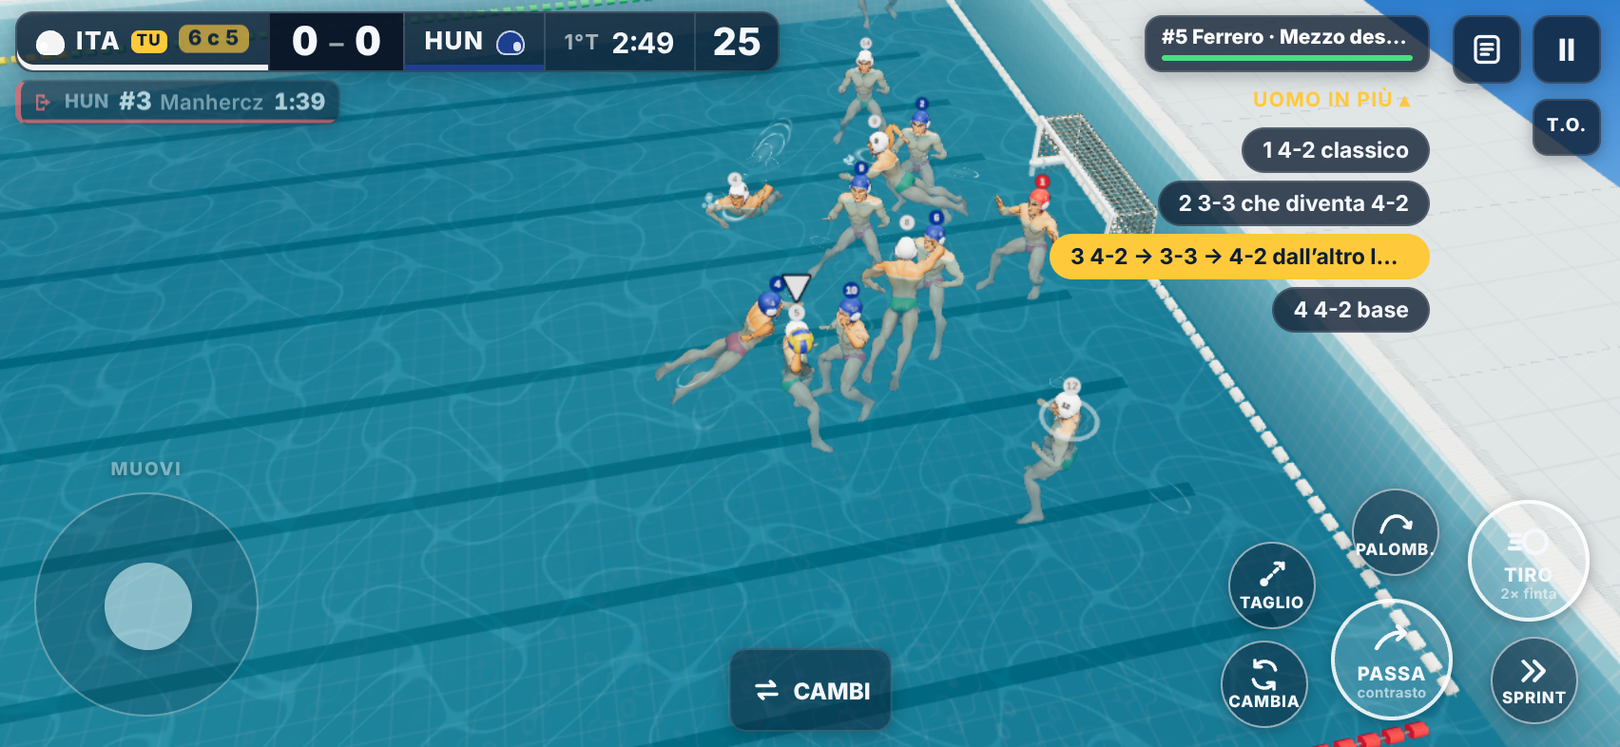
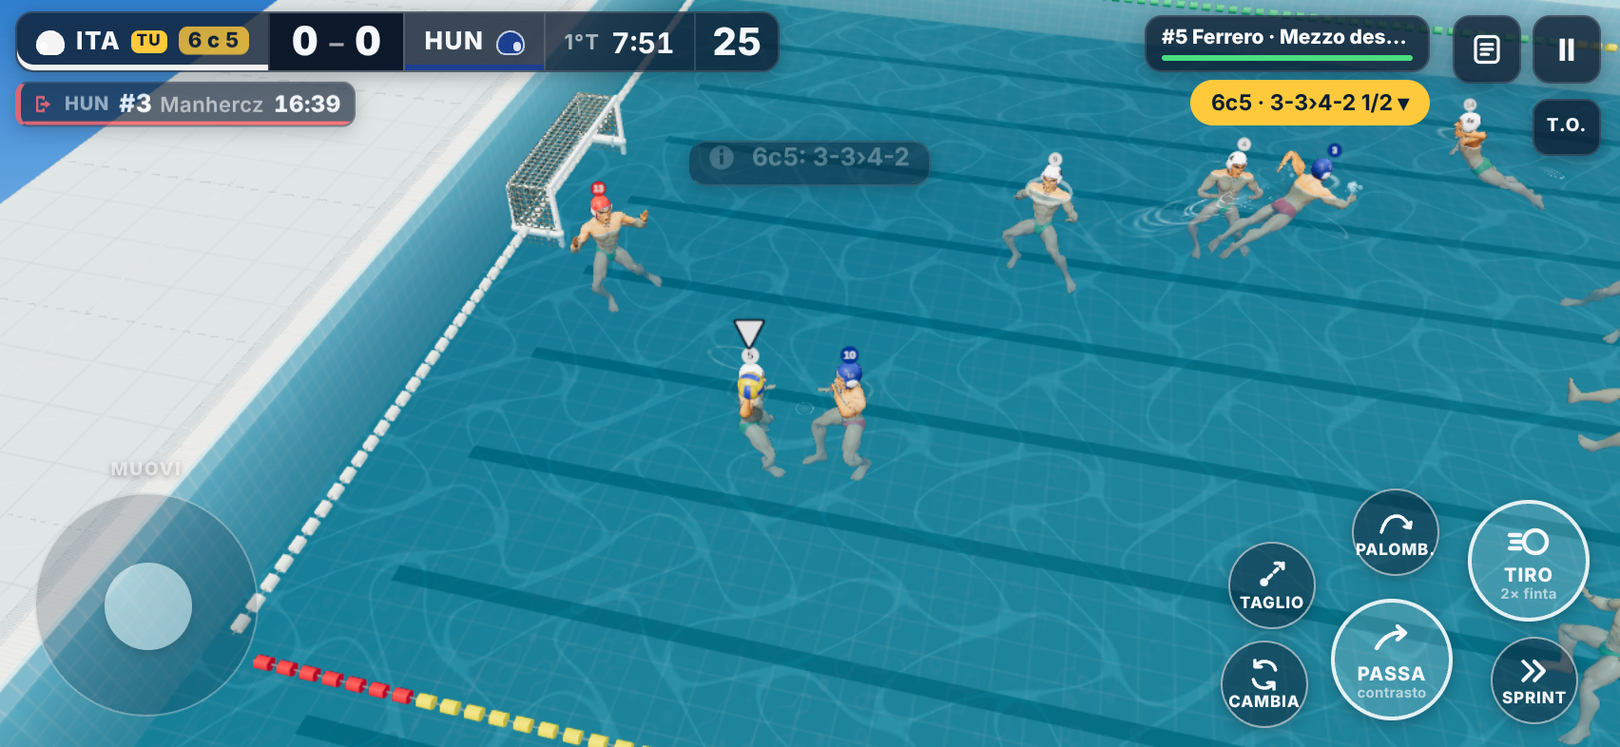
v0.44: interfaccia più pulita (espulsione senza sfarfallio, CAMBI solo quando serve, sigle dell'uomo in più)
- cronaca.js: il riquadro dell'espulso si crea una volta, si aggiornano solo tempo e barra
- stile.css: #tCambi visibile solo con un consiglio urgente o un cambio in corso
- uomo in più: sigle brevi (libreria, campo nell'editor), barra «6c5 · sigla k/n», chiusura dopo 5 s
- hud.js: barra della lotta solo se riguarda il giocatore
- docs/hud-priorita.md: cosa si vede e quando; prove aggiornate (cronaca, uomo)

Claude-Session: https://claude.ai/code/session_01XAJhVTigiGoNKwMZvUN4DX

diff --git a/src/uomo-in-piu.js b/src/uomo-in-piu.js
@@ -11,7 +11,7 @@
 // 4 = mezzo sinistro (5), P1 = centroboa (1), P5 = punto (6).
 import { FORM_UP } from './costanti.js';
 
-export const MAX_SCELTI = 3, MAX_FASI = 4, MAX_PERSONALI = 24;
+export const MAX_SCELTI = 3, MAX_FASI = 4, MAX_PERSONALI = 24, MAX_SIGLA = 10;
 export const DURATE = [1.5, 2.5, 3.5, 5];      // secondi per fase (l'ultima resta comunque fino alla fine dell'uomo in più)
 export const RUOLI_UP = ['Centroboa', 'Ala destra', 'Ala sinistra', 'Mezzo destro', 'Mezzo sinistro', 'Punto'];
 const KEY = 'pallanuoto-uomo-v044';
@@ -22,27 +22,27 @@ const fase = (posti, durata = 2.5, palla = 0) => ({ posti, durata, palla });
 const P33 = [[2.1, 0], [2.0, 4.4], [2.0, -4.4], [4.6, 3.4], [4.6, -3.4], [6.5, 0]];
 
 export const LIBRERIA = [
-  { id: 'u42', nome: '4-2 classico', fonte: 'Mistrangelo, fig. 1',
+  { id: 'u42', sigla: '4-2', nome: '4-2 classico', fonte: 'Mistrangelo, fig. 1',
     descrizione: 'Quattro sui 2 metri (due esterni e due pali) e due tiratori ai 5 metri. La palla gira in fretta fino al tiro libero.',
     fasi: [fase(P42, 5)] },
-  { id: 'u33', nome: '3-3', fonte: 'Mistrangelo, fig. 2',
+  { id: 'u33', sigla: '3-3', nome: '3-3', fonte: 'Mistrangelo, fig. 2',
     descrizione: 'Tre sui 2 metri e tre fuori: più tiratori da lontano, il centro libera lo spazio per chi è al centro.',
     fasi: [fase(P33, 5)] },
-  { id: 'u33-42', nome: '3-3 che diventa 4-2', fonte: 'Mistrangelo, fig. 3',
+  { id: 'u33-42', sigla: '3-3›4-2', nome: '3-3 che diventa 4-2', fonte: 'Mistrangelo, fig. 3',
     descrizione: 'Si parte in 3-3; il mezzo sinistro entra sul palo, il centro scivola a destra e il punto scende ai 5 metri.',
     fasi: [fase(P33, 2.5), fase([[2.1, 1.75], [2.0, 5.4], [2.0, -5.4], [5.2, 2.5], [2.1, -1.75], [5.2, -2.5]], 5, 4)] },
-  { id: 'u42-33', nome: '4-2 che diventa 3-3', fonte: 'Mistrangelo, fig. 4',
+  { id: 'u42-33', sigla: '4-2›3-3', nome: '4-2 che diventa 3-3', fonte: 'Mistrangelo, fig. 4',
     descrizione: 'Dal 4-2 l’ala sinistra esce ai 5 metri, i pali scivolano a sinistra e il mezzo sinistro diventa punto.',
     fasi: [fase(P42, 2.5), fase([[2.1, 0], [2.0, 4.4], [4.6, -3.4], [4.6, 3.4], [6.5, 0], [2.0, -4.4]], 5, 3)] },
-  { id: 'urot1', nome: 'Rotazione verso 1', fonte: 'Mistrangelo, fig. 5',
+  { id: 'urot1', sigla: 'Rotaz. 1', nome: 'Rotazione verso 1', fonte: 'Mistrangelo, fig. 5',
     descrizione: 'Come il 4-2 che diventa 3-3, ma lo scivolamento del palo sinistro è corto: si apre la linea per il palo destro.',
     fasi: [fase(P42, 2.5), fase([[2.1, 0.6], [2.0, 5.4], [4.4, -4.0], [4.6, 3.6], [6.4, -0.5], [2.0, -3.9]], 5, 1)] },
-  { id: 'u42-33-42', nome: '4-2 → 3-3 → 4-2 dall’altro lato', fonte: 'Mistrangelo, fig. 6',
+  { id: 'u42-33-42', sigla: 'Doppio lato', nome: '4-2 → 3-3 → 4-2 dall’altro lato', fonte: 'Mistrangelo, fig. 6',
     descrizione: 'Il palo sinistro esce, il centro si sposta, poi il mezzo destro entra sul palo: la difesa deve cambiare lato due volte.',
     fasi: [fase(P42, 2),
       fase([[2.1, 0], [2.0, 4.6], [2.0, -4.6], [4.6, 3.4], [6.5, 0], [4.6, -3.4]], 2.5),
       fase([[2.1, -1.75], [2.0, 5.4], [2.0, -5.4], [2.1, 1.75], [5.2, 2.5], [5.2, -2.5]], 5, 4)] },
-  { id: 'uscivola5', nome: 'Uscita del 5 e scivolamento del palo', fonte: 'Mistrangelo, terza puntata, fig. 20-21',
+  { id: 'uscivola5', sigla: 'Uscita 5', nome: 'Uscita del 5 e scivolamento del palo', fonte: 'Mistrangelo, terza puntata, fig. 20-21',
     descrizione: 'L’esterno sinistro esce dai 2 metri per tirare; il palo sinistro scivola sulla linea senza uscire e obbliga il centrale a scegliere.',
     fasi: [fase(P42, 2), fase([[2.1, 1.75], [2.0, 5.4], [3.6, -5.0], [4.8, 3.2], [5.0, -1.2], [2.0, -3.7]], 5, 3)] },
 ];
@@ -72,7 +72,8 @@ export function validaUomo(input) {
   if (!nome) return null;
   const id = typeof input.id === 'string' && input.id ? input.id.slice(0, 40) : null;
   if (!id) return null;
-  return { id, nome, descrizione: typeof input.descrizione === 'string' ? input.descrizione.slice(0, 240) : '',
+  const sigla = typeof input.sigla === 'string' ? input.sigla.trim().slice(0, MAX_SIGLA) : '';
+  return { id, nome, sigla, descrizione: typeof input.descrizione === 'string' ? input.descrizione.slice(0, 240) : '',
     fonte: typeof input.fonte === 'string' ? input.fonte.slice(0, 80) : '', personale: !!input.personale, fasi };
 }
 
@@ -87,6 +88,8 @@ export function personali() {
   return v.personali.map(s => validaUomo({ ...s, personale: true })).filter(Boolean).slice(0, MAX_PERSONALI);
 }
 export function tutti() { return [...LIBRERIA, ...personali()]; }
+// nome breve da mostrare in partita (barra in alto, annuncio): la sigla scelta, altrimenti l'inizio del nome
+export const siglaUomo = s => !s ? '4-2' : (s.sigla || (s.nome.length <= MAX_SIGLA ? s.nome : s.nome.slice(0, MAX_SIGLA - 1).trimEnd() + '…'));
 export const trova = id => tutti().find(s => s.id === id) || null;
 export function scelti() {
   const v = leggi(), ids = v && Array.isArray(v.scelti) ? v.scelti : SCELTI_BASE;

diff --git a/src/hud.js b/src/hud.js
@@ -8,8 +8,9 @@ import { ball, ctrl, fight, game, teams } from './stato.js';
 import { iconaMano } from './mano.js';
 import { aggiornaPulsanteCambi } from './panchinaVista.js';
 import { manUp, schemiUomo } from './ia.js';
+import { siglaUomo } from './uomo-in-piu.js';
 export const $ = id => document.getElementById(id);
-let tacKey='', schedaVista=null, ultimoBip=null, uomoAperto=null;
+let tacKey='', schedaVista=null, ultimoBip=null, uomoAperto=null, uomoChiudi=null;
 const TOUCH='ontouchstart' in window || navigator.maxTouchPoints>0;
 let schemiAperti=!TOUCH;
 export function apriSchemi(v){ schemiAperti = v===undefined ? !schemiAperti : (TOUCH ? v : true); }
@@ -68,7 +69,10 @@ export function updateHUD(){
   }
   aggiornaCronaca();
   const fe=$('fight');
-  if(fight.active){
+  // la barra della lotta al centro solo quando riguarda il giocatore: controlla il boa o il suo marcatore, oppure la sua squadra
+  // attacca e può servire il centroboa (v0.44, «le informazioni compaiono quando servono»)
+  const lottaUtile=fight.active&&(ctrl===fight.boa||ctrl===fight.def||(game.possTeam===teams[0]&&fight.boa.team===teams[0]));
+  if(lottaUtile){
     fe.style.display='block';
     const stato=fight.ricevibile?'Boa servibile':fight.stato==='anticipo'?'Anticipo difesa':'Cerca il lato';
     $('fstato').textContent=stato;
@@ -83,18 +87,22 @@ export function updateHUD(){
   const piano=atk&&hum.schema?hum.schema.nome:null;
   // uomo in più (v0.44): la barra mostra i tre schemi scelti; si apre da sola all'inizio di ogni superiorità (un tocco per chiamarlo)
   const up=atk&&manUp(hum)&&game.state==='play';
-  if(up&&hum.uomoPossT!==uomoAperto){ uomoAperto=hum.uomoPossT; apriSchemi(true); }
-  if(!up) uomoAperto=null;
+  // si apre da sola a ogni superiorità e, se non si sceglie niente, si richiude dopo 5 s di gioco (resta la pillola chiusa)
+  if(up&&hum.uomoPossT!==uomoAperto){ uomoAperto=hum.uomoPossT; uomoChiudi=game.time+5; apriSchemi(true); }
+  if(up&&TOUCH&&uomoChiudi!=null&&game.time>=uomoChiudi){ uomoChiudi=null; if(!hum.uomo) apriSchemi(false); }
+  if(!up){ uomoAperto=null; uomoChiudi=null; }
   const key=(up?'u'+(hum.uomo?hum.uomo.schema.id+hum.uomo.fase:'-'):'')+(atk?'a'+hum.atkPlay:'d'+hum.defPlay)+'|'+ai.defPlay+ai.atkPlay+'|'+schemiAperti+'|'+piano;
   if(key!==tacKey&&up){
     tacKey=key;
     const lista=schemiUomo(hum), cur=hum.uomo?hum.uomo.schema:null;
     let h;
-    if(!schemiAperti) h=`<span class="chip on up" data-apri="1">6c5: ${cur?cur.nome:'scegli lo schema'} ▾</span>`;
+    // testi brevi (sigla dello schema e fase «2/3»); il nome completo resta nel suggerimento al passaggio del mouse
+    const fase=cur&&cur.fasi.length>1?` ${hum.uomo.fase+1}/${cur.fasi.length}`:'';
+    if(!schemiAperti) h=`<span class="chip on up" data-apri="1" title="${cur?cur.nome:'4-2 base'}">6c5 · ${siglaUomo(cur)}${fase} ▾</span>`;
     else {
-      h=`<span class="chip lab up" data-apri="1">UOMO IN PIÙ${TOUCH?' ▴':''}</span>`;
-      lista.forEach((sc,i)=>{ h+=`<span class="chip up${cur===sc?' on':''}" data-i="${i}">${i+1} ${sc.nome}${cur===sc&&sc.fasi.length>1?` · fase ${hum.uomo.fase+1}/${sc.fasi.length}`:''}</span>`; });
-      h+=`<span class="chip up${!cur?' on':''}" data-i="3">4 4-2 base</span>`;
+      h=`<span class="chip lab up" data-apri="1">6c5${TOUCH?' ▴':''}</span>`;
+      lista.forEach((sc,i)=>{ h+=`<span class="chip up${cur===sc?' on':''}" data-i="${i}" title="${sc.nome}">${i+1} ${siglaUomo(sc)}${cur===sc?fase:''}</span>`; });
+      h+=`<span class="chip up${!cur?' on':''}" data-i="3" title="4-2 della strategia">4 Base</span>`;
     }
     $('tac').innerHTML=h;
   } else if(key!==tacKey){

diff --git a/src/cronaca.js b/src/cronaca.js
@@ -104,21 +104,32 @@ export function tick(dt){
 // il distintivo oro «6 c 5» nel tabellone. Nessun banner al centro: il gioco intanto continua.
 const fresche=new Map();
 const USCITA_SVG='<svg viewBox="0 0 24 24"><path d="M4 3.5h9v4h-2.4V6H6.4v12h4.2v-1.5H13v4H4z" fill="currentColor"/><path d="M13.5 8l6 4-6 4v-2.6H8.6v-2.8h4.9z" fill="currentColor"/></svg>';
-const chiaviEsp=['',''];
+// Un riquadro per espulso, creato UNA volta e poi solo aggiornato (secondi, barretta rossa, dettaglio dei primi secondi).
+// Prima veniva ricostruito a ogni aggiornamento (la percentuale della barretta cambia di continuo) e il riquadro «sfarfallava»
+// (segnalazione di Ale, 15/11/2026).
+const riquadri=[new Map(),new Map()];
+function riquadroEspulso(t,p){
+  const el=document.createElement('span'); el.className='ex';
+  el.innerHTML=`<span class="r1">${USCITA_SVG}<span class="sq-ex">${t.short}</span><span class="lab">Espulsione</span><span class="chi">#${p.num} <small>${p.name}</small></span><span class="t"></span></span><span class="det"></span>`;
+  return { el, t:el.querySelector('.t'), det:el.querySelector('.det'), testo:'', p:'', nuova:null, dettaglio:null };
+}
 function aggiornaStato(){
   const inCampo=t=>t.players.filter(p=>!p.excluded&&!p.isGK).length;      // giocatori di movimento: «6 contro 5»
   const a=inCampo(teams[0]), b=inCampo(teams[1]);
   teams.forEach((t,k)=>{
-    let h='';
+    const box=$(k===0?'espA':'espB'), mappa=riquadri[k];
+    for(const [p,r] of mappa) if(!p.excluded||p.team!==t){ r.el.remove(); mappa.delete(p); }
     for(const p of t.players) if(p.excluded){
+      let r=mappa.get(p); if(!r){ r=riquadroEspulso(t,p); mappa.set(p,r); box.appendChild(r.el); }
       const resta=Math.max(0,p.exclUntil-game.time), f=fresche.get(p), def=p.pf>=3;
-      h+=`<span class="ex${f?' nuova':''}" style="--p:${def?100:Math.round(Math.min(1,resta/EXCL_TIME)*100)}%">`
-        +`<span class="r1">${USCITA_SVG}<span class="sq-ex">${t.short}</span><span class="lab">Espulsione</span><span class="chi">#${p.num} <small>${p.name}</small></span><span class="t">${def?'def.':fmt(resta)}</span></span>`
-        +(f&&f.det?`<span class="det">${f.det}</span>`:'')+'</span>';
+      const testo=def?'def.':fmt(resta), perc=`${def?100:Math.round(Math.min(1,resta/EXCL_TIME)*100)}%`;
+      if(r.testo!==testo){ r.testo=testo; r.t.textContent=testo; }
+      if(r.p!==perc){ r.p=perc; r.el.style.setProperty('--p',perc); }
+      if(r.nuova!==!!f){ r.nuova=!!f; r.el.classList.toggle('nuova',!!f); }
+      const det=f&&f.det?f.det:''; if(r.dettaglio!==det){ r.dettaglio=det; r.det.textContent=det; r.det.hidden=!det; }
     }
     const mia=k===0?a:b, altra=k===0?b:a, piu=$(k===0?'piuA':'piuB'), sup=mia>altra?`${mia} c ${altra}`:'';
     if(piu.textContent!==sup){ piu.textContent=sup; piu.classList.toggle('on',!!sup); piu.title=sup?'uomo in più':''; }
-    if(h!==chiaviEsp[k]){ chiaviEsp[k]=h; $(k===0?'espA':'espB').innerHTML=h; }
   });
 }
 

diff --git a/src/uomo-editor.js b/src/uomo-editor.js
@@ -50,7 +50,7 @@ function azione(e) {
   if (b.dataset.azione === 'togli') salvaScelti(ids.filter(q => q !== id));
   if (b.dataset.azione === 'elimina' && confirm(`Eliminare lo schema «${s.nome}»?`)) eliminaPersonale(id);
   if (b.dataset.azione === 'modifica' && s) return apriCrea(copia(s));
-  if (b.dataset.azione === 'copia' && s) return apriCrea({ ...copia(s), id: nuovoId(), nome: `${s.nome} (mio)`, personale: true, fonte: '' });
+  if (b.dataset.azione === 'copia' && s) return apriCrea({ ...copia(s), id: nuovoId(), nome: `${s.nome} (mio)`, sigla: s.sigla || '', personale: true, fonte: '' });
   disegnaElenco();
 }
 
@@ -59,7 +59,7 @@ function messaggio(t = '') { $('uomoMessaggio').textContent = t; $('uomoMessaggi
 function apriCrea(schema) {
   bozza = schema || { id: nuovoId(), nome: 'Il mio schema', descrizione: '', personale: true, fasi: copia(LIBRERIA[0].fasi) };
   faseI = 0; ruolo = 1; messaggio();
-  $('uomoElenco').hidden = true; $('uomoCrea').hidden = false; $('uomoNome').value = bozza.nome;
+  $('uomoElenco').hidden = true; $('uomoCrea').hidden = false; $('uomoNome').value = bozza.nome; $('uomoSigla').value = bozza.sigla || '';
   disegnaCrea();
 }
 function chiudiCrea() { $('uomoCrea').hidden = true; $('uomoElenco').hidden = false; bozza = null; disegnaElenco(); }
@@ -96,6 +96,7 @@ function puntoSvg(e) {
 function salva() {
   bozza.nome = $('uomoNome').value.trim();
   if (!bozza.nome) { messaggio('Dai un nome allo schema prima di salvarlo.'); $('uomoNome').focus(); return; }
+  bozza.sigla = $('uomoSigla').value.trim();
   bozza.descrizione = bozza.fasi.length === 1 ? 'Schema personale a una fase.' : `Schema personale in ${bozza.fasi.length} fasi.`;
   const s = validaUomo({ ...bozza, personale: true });
   if (!s) { messaggio('Lo schema non è valido: controlla i posti.'); return; }

diff --git a/index.html b/index.html
@@ -180,7 +180,7 @@
     </div>
     <div id="uomoCrea" hidden>
       <div class="uomo-crea-barra">
-        <label class="schema-campo uomo-nome">Nome dello schema<input id="uomoNome" type="text" maxlength="36" autocomplete="off" spellcheck="false"></label>
+        <label class="schema-campo uomo-nome">Nome dello schema<input id="uomoNome" type="text" maxlength="36" autocomplete="off" spellcheck="false"></label><label class="schema-campo uomo-sigla">Sigla in partita<input id="uomoSigla" type="text" maxlength="10" autocomplete="off" spellcheck="false" placeholder="es. 4-2 sx"></label>
         <div class="schema-fasi uomo-fasi" id="uomoFasi" role="tablist" aria-label="Fasi dello schema"></div>
         <button type="button" class="azione-secondaria" id="uomoAggiungiFase">＋ Fase</button><button type="button" class="azione-secondaria" id="uomoTogliFase">− Fase</button>
       </div>

diff --git a/src/regole.js b/src/regole.js
@@ -1,5 +1,6 @@
 // ================= REGOLE / FASI =================
 import { chiLasciare, chiamaUomo, manUp, passaAZona, scegliDifesa, setteControSei } from './ia.js';
+import { siglaUomo } from './uomo-in-piu.js';
 import { elevazione } from './tiri.js';
 import { riservaPer, vesti } from './giocatori.js';
 import { annullaCambio } from './panchina.js';
@@ -229,7 +230,7 @@ export function callPlay(i){
   // uomo in più (v0.44): 1-3 chiamano gli schemi scelti nella sezione «Uomo in più», 4 torna al 4-2 della strategia
   if(game.possTeam===t&&manUp(t)){
     const sc=chiamaUomo(t,i<3?i:-1);
-    annuncia('avviso',sc?`Uomo in più: ${sc.nome}`:'Uomo in più: 4-2 base',{durata:1.6});
+    annuncia('avviso',`6c5: ${siglaUomo(sc)}`,{durata:1.6});
     return;
   }
   if(game.possTeam===t){

diff --git a/src/stile.css b/src/stile.css
@@ -1009,3 +1009,7 @@ body.touch #tac .chip[data-apri]{max-width:200px}
 /* barra dell'uomo in più su schermi bassi (iPhone con le barre di Safari): più compatta, nomi lunghi accorciati, non tocca i comandi */
 #tac .chip.up{max-width:230px;overflow:hidden;text-overflow:ellipsis}
 @media (max-height:360px){ #tac:has(.chip.up){gap:2px} #tac .chip.up{padding:2px 8px;font-size:10.5px;max-width:200px} }
+
+/* v0.44 (Ale): il pulsante dei cambi compare solo quando serve davvero (stanco o 2 falli gravi) o mentre un cambio è in corso;
+   le proposte non urgenti restano nella schermata Cambi e panchina della pausa (e nel tasto B) */
+#tCambi:not([data-stato="consiglio"]):not([data-stato="corso"]){display:none}

diff --git a/CLAUDE.md b/CLAUDE.md
@@ -4,6 +4,7 @@ Gioco di pallanuoto 3D nel browser, "una sorta di FIFA per la pallanuoto". Propr
 
 ## Stato attuale (v0.44, novembre 2026)
 - v0.44 (Claude Code, 15/11/2026, richiesta di Ale con tre PDF: Mistrangelo «Pali in superiorità numerica» 1ª e 3ª puntata, Campagna «L'area di porta cambia la difesa in meno»): SCHEMI DELL'UOMO IN PIÙ. Tutto in `docs/uomo-in-piu.md`. `src/uomo-in-piu.js`: schema = 1-4 fasi (6 posti, durata 1,5/2,5/3,5/5 s, «palla a» un ruolo), validazione (fuori dall'area di porta, ≤4 fasi), libreria di 7 schemi dai documenti (`LIBRERIA`: 4-2, 3-3, 3-3→4-2, 4-2→3-3, rotazione verso 1, 4-2→3-3→4-2 dall'altro lato, uscita del 5 con scivolamento del palo), scelti al massimo 3 (`SCELTI_BASE` di partenza), schemi personali fino a 24 (`localStorage` «pallanuoto-uomo-v044»). Fasi in partita: avanzano a durata finita E con i compagni arrivati (media <1,6 m) o dopo 3 s in più; tempo a gioco fermo non conta. `ia.js`: `postiSup`, `paloUomo` (palo = chi nella fase è davanti alla porta, non più solo ruoli 1 e 6), `viciniUomo`, `schemiUomo`, `chiamaUomo`; `aggiornaSchemi` avvia lo schema del computer (scelta con `rnd`, quindi le partite simulate cambiano solo quando c'è l'uomo in più) e fa avanzare le fasi. `tiri.js`: pali e perimetro dalla fase, bonus «palla a». `regole.js` `callPlay`: con l'uomo in più 1-3 = schemi scelti, 4 = 4-2 base. `hud.js`: la barra `#tac` mostra i 3 schemi e la fase, si apre da sola a ogni superiorità. Sezione «Uomo in più» (`src/uomo-editor.js`, vista `vUomo`, pulsanti `btUomoSquadre/Impostazioni/Torneo/Strategie`): 3 posti scelti, libreria con miniature, «Usa come base», creazione con lavagna a fasi, modifica ed eliminazione dei propri. DECISIONE SUPERATA: in superiorità i pali erano sempre centroboa e punto con un solo 4-2 fisso per strategia → posti e pali dalla fase dello schema chiamato (la scheda «Superiorità 6 c 5» dell'editor delle strategie resta come 4-2 base). Misure (8 partite ITA–HUN, per squadra) v0.42 → v0.44: superiorità trasformate 67,0% → 47,7% (Mondiali 52%), gol 17,3 → 16,0, tiri 46,0 → 48,6, tiri in gol 37,6% → 32,9%, espulsioni 6,1 → 5,4. Verifiche: lint PASS; `npm run uomo` (nuovo, anche in CI) tutte PASS; `npm run verifica` sei partite (87 gol su 285 tiri, 31%) e cinque screenshot identici; `npm run aspetto` PASS (0 gambe fuori, viste iPhone 57/141358 e 56/141346); `tattica`, `strategie`, `gameplay`, `centroboa`, `menu --solo-controlli` PASS. Barra in partita su SE con barre di Safari (667×300) e iPhone 15: nessuna sovrapposizione con i comandi. NON FATTO: movimenti e tiri dedicati dei pali (scivolamento, trazione, schiacciata, rovesciata), fasi legate a eventi, 5 c 4, schemi del computer scelti per avversario.
+- v0.44 anche (stessa PR, seconda richiesta di Ale: «alcune informazioni devono sparire per dare spazio ad altre; sintetizzare i concetti conservandone il senso»): regole e tabella di cosa si vede e quando in `docs/hud-priorita.md`. (1) ESPULSIONE CHE SFARFALLAVA: `aggiornaStato` (`cronaca.js`) ricostruiva il riquadro da capo a ogni aggiornamento della barra; ora lo crea una volta (`riquadri`, `riquadroEspulso`) e cambia solo tempo, barra e dettaglio (prova nuova in `npm run cronaca`: prima NO, dopo OK). (2) CAMBI: `#tCambi` visibile SOLO con un consiglio urgente (stato `consiglio`: stanco sotto 50% o 2 falli gravi) o con un cambio in corso; le proposte non urgenti restano nella pausa, il tasto B funziona come prima. DECISIONE SUPERATA: pulsante CAMBI sempre visibile in basso al centro (v0.39) → solo quando serve (posizione e area di tocco invariate). (3) UOMO IN PIÙ: sigle (`sigla` nella `LIBRERIA`, `siglaUomo`, campo «Sigla in partita» nell'editor, 10 caratteri, `MAX_SIGLA`), barra «6c5 · 3-3›4-2 2/2», «4 Base», annuncio «6c5: sigla»; su touch la barra aperta a inizio superiorità si richiude dopo 5 s di gioco se non si sceglie. (4) LOTTA AL CENTRO: barra solo se riguarda il giocatore (controlla boa o marcatore, oppure attacca con il proprio boa) (`lottaUtile` in `hud.js`). Proposte ancora da confermare con Ale in fondo a `docs/hud-priorita.md`.
 - v0.43 (Claude Code, 15/11/2026, foto di Ale dall'app aggiunta alla Home, iOS 26): (1) schermata «Ruota il dispositivo»: il telefono disegnato girava in senso antiorario mentre la freccia è oraria; ora gira di +90° (`@keyframes gira` in `stile.css`, misurato 0 → 90° a metà animazione). (2) La stessa schermata ora sfuma in basso verso #07131d come il menu (striscia di iOS 26 invisibile). (3) Nell'app aggiunta alla Home la striscia sotto la pagina occupa già la zona della linea Home: il margine sicuro in basso del menu raddoppiava il vuoto e faceva sembrare la home spostata in alto. In modalità app (`@media (display-mode:standalone)`) `#menu` usa `--sb:0px` (resta il margine minimo di 16-18 px). Il gioco in partita non cambia. Verifiche: lint PASS; `npm run verifica` sei partite (91 gol su 284 tiri, 32%) e cinque screenshot PASS; `npm run aspetto` PASS (0 gambe fuori, viste iPhone 57/141358 e 56/141346); `npm run menu --solo-controlli` PASS. NON verificabile da qui: la modalità app di iOS (Playwright non la simula); da confermare da Ale.
 - v0.42 (Claude Code, 15/11/2026, tre segnalazioni di Ale dopo aver giocato la v0.41 dall'icona sulla Home dell'iPhone):
   - CONSIGLI DI CAMBIO (`panchina.js`, `panchinaVista.js`): il pulsante CAMBI non propone nulla nei primi 90 s (`CONSIGLIO_DOPO`) e mai mentre la squadra difende: `consiglioInGioco` mostra solo consigli per chi può uscire adesso (`momentoUtile`, oppure gioco fermo dopo gol/time-out). `momentoUtile` NON consente più cambi in difesa (prima sì se la palla era a più di 10 m dalla propria porta): vale anche per i cambi scelti in pausa, che aspettano il possesso. «In panchina c'è chi rende di più» solo se chi è in acqua è sotto l'85% di stamina (prima scattava a inizio partita per la sola differenza di valutazione con la formazione scelta). DECISIONE SUPERATA: cambio in coda possibile anche in difesa lontano dalla porta (v0.34) → mai in difesa. `npm run sezione5` aggiornata (palla ferma al NOSTRO portiere nella prova del cambio volante) e con tre prove nuove (niente consiglio a inizio partita, niente in difesa, sì in attacco): tutte PASS.

diff --git a/docs/hud-priorita.md b/docs/hud-priorita.md
@@ -1,0 +1,38 @@
+# Cosa si vede in partita e quando (v0.44)
+
+Richiesta di Ale (15/11/2026): «decidere se in certe condizioni alcune informazioni debbano sparire per dare spazio ad altre» e «sintetizzare i concetti conservandone il senso». Regola di base, già fissata nella v0.25: la partita (palla, giocatori, porte) ha sempre la precedenza; ai margini si vede solo ciò che serve **adesso**.
+
+## Regole
+
+1. **Sempre visibili** solo: tabellone (punteggio, tempo, tempo per l'azione), freccia sul giocatore controllato, comandi.
+2. **Quando serve**: un elemento compare solo se il giocatore può farci qualcosa adesso, e sparisce appena non serve più.
+3. **Testi brevi**: in partita si usano sigle (al massimo circa 10 caratteri per voce); la spiegazione completa sta nei menu (pausa, sezioni della squadra) o nel suggerimento al passaggio del mouse.
+4. **Niente movimento inutile**: un indicatore che resta a schermo non si ridisegna da capo; cambiano solo i numeri e le barre.
+
+## Elementi
+
+| Elemento | Quando si vede | Priorità | Testo massimo |
+|---|---|---|---|
+| Tabellone | sempre | 1 | sigle squadre, punteggio, tempo, 28 |
+| Notifiche (gol, rigore, time-out…) | per 2-3 s dopo l'evento, si riducono a una riga se la palla è vicina | 2 | titolo + una riga |
+| Espulsione | linguetta sotto la squadra: aperta 2,6 s, poi chiusa «#7 0:12» con barra; «6 c 5» nel tabellone | 2 | «#num nome tempo» |
+| Barra dell'uomo in più (v0.44) | si apre da sola a ogni superiorità; se non scegli niente si richiude dopo 5 s di gioco; dopo la scelta resta chiusa | 2 | «6c5 · 3-3›4-2 2/2» |
+| Pulsante CAMBI (v0.44) | **solo** quando un cambio serve davvero (giocatore sotto il 50% di stamina o con 2 falli gravi, e può uscire adesso) o mentre un cambio è in corso | 3 | «Rossi → Bianchi» |
+| Barra della lotta al centro (v0.44) | solo se riguarda te: controlli il centroboa o il suo marcatore, oppure la tua squadra attacca e il centroboa è tuo | 3 | sigle e numeri |
+| Barra degli schemi (parità) | chiusa: solo lo schema in uso; aperta con un tocco | 4 | «ATT: Arco ▾» |
+| Pannello del giocatore | sempre, ridotto a numero e nome sugli schermi stretti | 4 | numero, nome, barra |
+| Carica del tiro | solo mentre carichi | 2 | percentuale / MAX |
+
+## Cambiato nella v0.44
+
+- **Espulsione che sfarfallava**: il riquadro veniva ricostruito da capo circa 20 volte al secondo (a ogni aggiornamento della barra del tempo). Ora si crea una volta sola e si aggiornano solo il tempo e la barra (`aggiornaStato` in `src/cronaca.js`; prova in `npm run cronaca`).
+- **CAMBI**: prima era sempre a schermo in basso al centro, anche vuoto o con proposte non urgenti. Ora compare solo con un consiglio urgente o durante un cambio (`#tCambi` in `src/stile.css`). Le proposte non urgenti («partita storta», «in panchina c'è chi rende di più») restano nella schermata «Cambi e panchina» della pausa; il tasto B continua a far partire il consiglio del momento.
+- **Uomo in più**: sigle al posto dei nomi lunghi («3-3›4-2» invece di «3-3 che diventa 4-2»), fase scritta «2/2», «4 Base» per il 4-2 della strategia, annuncio «6c5: sigla». Per gli schemi propri si può scegliere la sigla nell'editor (campo «Sigla in partita», 10 caratteri); senza sigla si usa l'inizio del nome. La barra si richiude da sola dopo 5 s se non si sceglie.
+- **Lotta al centro**: la barra non compare più per lotte che non riguardano il giocatore (per esempio quando l'avversario attacca e tu controlli un'ala lontana).
+
+## Proposte da confermare con Ale
+
+- Pannello del giocatore: mostrarlo solo quando cambia il giocatore controllato (3 s) e poi lasciare solo la freccia sopra la testa.
+- Pulsante PALOMB.: visibile solo quando la tua squadra ha la palla (in difesa non serve).
+- T.O. e registro: dentro la pausa invece che sempre a schermo.
+- Barra degli schemi in difesa: nascosta durante la controfuga avversaria (non c'è tempo di chiamare).

diff --git a/docs/PASSAGGIO-CODEX.md b/docs/PASSAGGIO-CODEX.md
@@ -68,8 +68,9 @@ REGOLE FISSE DI ALE (da rispettare sempre):
 - Restano fissi: stile cartoon, 14 corpi completi, camera unica, SPEED=1,
   sprint a tocchi, riflesso completo solo in qualità alta, ombra
   dell'espulso, palla senza contorno, carica 0,9 s e tiro al rilascio, CAMBI
-  in basso al centro con area di tocco 44 px, regolamento World Aquatics
-  18 febbraio 2026.
+  in basso al centro con area di tocco 44 px (dalla v0.44 visibile SOLO con
+  un consiglio urgente o un cambio in corso), regolamento World Aquatics
+  18 febbraio 2026. Cosa si vede in partita e quando: docs/hud-priorita.md.
 - Il caso del gioco passa solo da rnd(); la grafica usa rndGrafica().
 - Nessun merge o pubblicazione senza istruzione di Ale. Prima di cambiare
   direzione in modo grosso, chiedi ad Ale.
